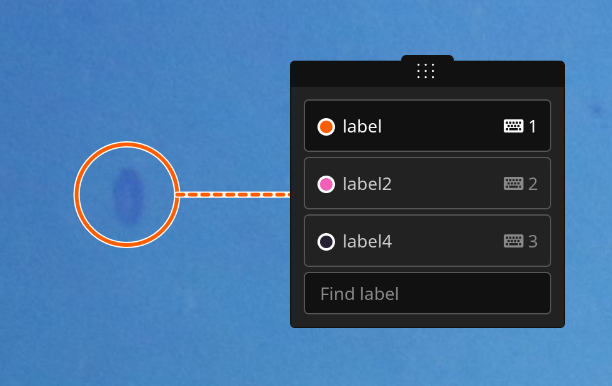
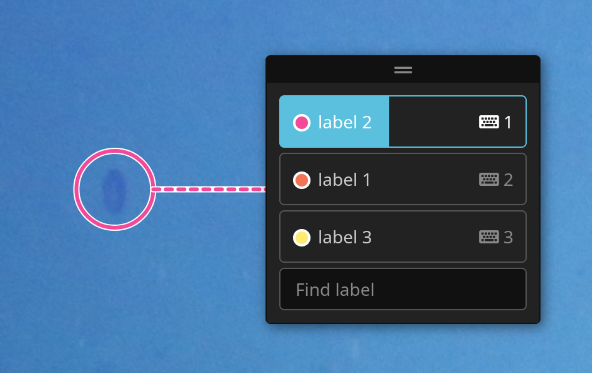
Add LabelBOT popup timeout settings

Changed region(s): [[0.1216, 0.118, 0.9426, 0.9142], [0.6689, 0.1769, 0.6993, 0.2064]]

diff --git a/resources/assets/js/annotations/components/labelbotPopup.vue b/resources/assets/js/annotations/components/labelbotPopup.vue
@@ -13,9 +13,7 @@
         <li
             v-for="(label, index) in labels"
             class="labelbot-label"
-            :class="{
-                'labelbot-label--progress': index === 0 && hasProgressBar,
-            }"
+            :class="{'labelbot-label--progress': index === 0 && hasProgressBar}"
             :key="index"
             @click="selectLabel(index)"
             :title="`Choose label ${label.name}`"
@@ -23,6 +21,7 @@
                 <div
                     v-if="index === 0 && hasProgressBar"
                     class="labelbot-label__progress-bar"
+                    :style="progressBarStyle"
                     @animationend="confirmAndClose"
                     ></div>
                 <div class="labelbot-label__name">
@@ -66,6 +65,14 @@ import {unByKey} from '@biigle/ol/Observable';
 const OVERLAY_MAX_WIDTH = 300;
 const OVERLAY_OFFSET = OVERLAY_MAX_WIDTH / 2 + 50;
 
+// Defines the available settings options.
+export const TIMEOUTS = [
+    '3s',
+    '5s',
+    '10s',
+    'off',
+];
+
 export default {
     emits: [
         'update',
@@ -86,6 +93,10 @@ export default {
         annotation: {
             type: Object,
             required: true,
+        },
+        timeout: {
+            type: Number,
+            default: 1,
         },
     },
     data() {
@@ -149,6 +160,14 @@ export default {
         },
         hasProgressBar() {
             return this.isFocused && this.shouldHaveProgressBar;
+        },
+        timeoutValue() {
+            return TIMEOUTS[this.timeout];
+        },
+        progressBarStyle() {
+            return {
+                'animation-duration': this.timeoutValue,
+            };
         },
     },
     watch: {
@@ -366,6 +385,10 @@ export default {
         }
     },
     created() {
+        if (this.timeout === (TIMEOUTS.length - 1)) {
+            this.shouldHaveProgressBar = false;
+        }
+
         this.trees = biigle.$require('annotations.labelTrees');
 
         Keyboard.on('Escape', this.handleEsc, 0, 'labelbot');

diff --git a/resources/assets/js/annotations/components/settingsTab.vue b/resources/assets/js/annotations/components/settingsTab.vue
@@ -4,6 +4,7 @@ import Keyboard from '@/core/keyboard.js';
 import PowerToggle from '@/core/components/powerToggle.vue';
 import ScreenshotButton from './screenshotButton.vue';
 import Settings from '../stores/settings.js';
+import {TIMEOUTS} from '../components/labelbotPopup.vue';
 
 /**
  * Additional components that can be dynamically added by other Biigle modules via
@@ -58,6 +59,7 @@ export default {
                 'minimap',
                 'progressIndicator',
                 'exampleAnnotations',
+                'labelbotTimeout',
             ],
             annotationOpacity: 1.0,
             cachedImagesCount: 1,
@@ -69,6 +71,8 @@ export default {
             minimap: true,
             progressIndicator: true,
             exampleAnnotations: true,
+            labelbotTimeout: 1,
+            labelbotTimeoutMax: TIMEOUTS.length - 1,
         };
     },
     computed: {
@@ -80,6 +84,9 @@ export default {
         },
         settings() {
             return Settings;
+        },
+        labelbotTimeoutValue() {
+            return TIMEOUTS[this.labelbotTimeout];
         },
     },
     methods: {
@@ -148,9 +155,14 @@ export default {
             this.settings.set('annotationOpacity', opacity);
         },
         cachedImagesCount(amount) {
-            amount = parseFloat(amount);
+            amount = parseInt(amount);
             this.$emit('change', 'cachedImagesCount', amount);
             this.settings.set('cachedImagesCount', amount);
+        },
+        labelbotTimeout(index) {
+            index = parseInt(index);
+            this.$emit('change', 'labelbotTimeout', index);
+            this.settings.set('labelbotTimeout', index);
         },
         mousePosition(show) {
             this.$emit('change', 'mousePosition', show);

diff --git a/resources/assets/js/annotations/annotatorContainer.vue b/resources/assets/js/annotations/annotatorContainer.vue
@@ -538,6 +538,9 @@ export default {
                 case 'cachedImagesCount':
                     this.cachedImagesCount = value;
                     break;
+                case 'labelbotTimeout':
+                    this.labelbotTimeout = value;
+                    break;
                 case 'mousePosition':
                     this.showMousePosition = value;
                     break;

diff --git a/resources/assets/sass/annotations/components/_labelbot-popup.scss b/resources/assets/sass/annotations/components/_labelbot-popup.scss
@@ -49,7 +49,8 @@
     position: absolute;
     height: 100%;
     background-color: $brand-info;
-    animation: 5s linear 1 labelbot-progressbar;
+    // Duration is defined by JS.
+    animation: linear 1 labelbot-progressbar;
 }
 
 .labelbot-label__keyboard {

diff --git a/resources/assets/js/annotations/components/annotationCanvas/labelBot.vue b/resources/assets/js/annotations/components/annotationCanvas/labelBot.vue
@@ -23,6 +23,10 @@ export default {
             type: Number,
             default: -1,
         },
+        labelbotTimeout: {
+            type: Number,
+            default: 1,
+        },
     },
     components: {
         labelbotPopup: LabelbotPopup,

diff --git a/resources/assets/js/annotations/mixins/labelbot.vue b/resources/assets/js/annotations/mixins/labelbot.vue
@@ -32,6 +32,7 @@ export default {
             labelbotMaxRequests: 1,
             labelbotWorker: null,
             labelBotWorkerListeners: [],
+            labelbotTimeout: 1,
         };
     },
     computed: {

diff --git a/resources/assets/js/annotations/stores/settings.js b/resources/assets/js/annotations/stores/settings.js
@@ -22,6 +22,7 @@ let defaults = {
     randomSamplingNumber: 9,
     regularSamplingRows: 3,
     regularSamplingColumns: 3,
+    labelbotTimeout: 1,
 };
 
 export default new Settings({

diff --git a/resources/views/manual/tutorials/labelbot/labelbot.blade.php b/resources/views/manual/tutorials/labelbot/labelbot.blade.php
@@ -19,7 +19,7 @@
         </p>
 
         <p>
-            Whenever a new annotation is created while LabelBOT is active, it will start <b class="text-info">computing</b>. Once finished, an overlay will be shown with the top three suggested labels for the annotation. If left alone for a while, the first suggested label will automatically be selected and the overlay will close. If the first suggested label is not correct, you can also select the second or third label with a click or keyboard shortcut. If none of the suggested labels are correct, you can choose a different label from the typeahead at the bottom of the overlay.
+            Whenever a new annotation is created while LabelBOT is active, it will start <b class="text-info">computing</b>. Once finished, an overlay will be shown with the top three suggested labels for the annotation. The first suggested label is automatically selected for the new annotation. If left alone for a while, the first suggested label will automatically be confirmed and the overlay will close. If the first suggested label is not correct, you can also select the second or third label with a click or keyboard shortcut. If none of the suggested labels are correct, you can choose a different label from the typeahead at the bottom of the overlay.
         </p>
 
         <p class="text-center">
@@ -27,7 +27,7 @@
         </p>
 
         <p>
-            The automatic timeout for choosing the first suggested label is cancelled on any interaction with the overlay. This includes dragging the overlay to a different position, which can be handy if you create several new annotations in a row and have to review multiple overlapping LabelBOT overlays. An overlay can be dragged by grabbing the top part with the cursor and releasing it at a different position. A dashed line indicates which overlay belongs to which annotation.
+            The automatic timeout for confirming the first suggested label <a href="{{route('manual-tutorials', ['annotations', 'sidebar'])}}#:~:text=The%20LabelBOT%20timeout">can be configured</a> and is cancelled on any interaction with the overlay. If multiple overlays are open at the same time, the timeout is only active in the currently focused overlay. A LabelBOT overlay can be dragged to a different position, which can be handy if you create several new annotations in a row and have to review multiple overlapping overlays. To drag an overlay, grab the top edge with the cursor and release it at a different position. A dashed line indicates which overlay belongs to which annotation.
         </p>
 
         <p>

diff --git a/resources/views/annotations/show/tabs/settings.blade.php b/resources/views/annotations/show/tabs/settings.blade.php
@@ -28,8 +28,13 @@
         </div>
 
         <div class="sidebar-tab__section">
-            <h5 title="Set the number of caches images ">Cached Images (<span v-text="cachedImagesCount"></span>)</h5>
+            <h5 title="Set the number of caches images">Cached Images (<span v-text="cachedImagesCount"></span>)</h5>
             <input type="range" min="1" max="50" step="1" v-model="cachedImagesCount" onmouseup="this.blur()">
+        </div>
+
+        <div class="sidebar-tab__section">
+            <h5 title="Set the duration of the LabelBOT popup timeout">LabelBOT Timeout (<span v-text="labelbotTimeoutValue"></span>)</h5>
+            <input type="range" min="0" :max="labelbotTimeoutMax" step="1" v-model="labelbotTimeout" onmouseup="this.blur()">
         </div>
 
         <div class="sidebar-tab__section">

diff --git a/resources/views/manual/tutorials/annotations/sidebar.blade.php b/resources/views/manual/tutorials/annotations/sidebar.blade.php
@@ -122,6 +122,10 @@
         </p>
 
         <p>
+            <a name="labelbot-timeout"></a>The LabelBOT timeout slider allows you to control the time after a <a href="{{route('manual-tutorials', ['labelbot', 'labelbot'])}}">LabelBOT</a> popup automatically closes. Move the slider to the far right to disable automatic closing.
+        </p>
+
+        <p>
             The progress indicator switch constrols the display of the indicator element next to the image filename in the navbar. The indicator shows your progress through the current (filtered) volume and whether you have seen all images.
         </p>
 

diff --git a/resources/views/annotations/show.blade.php b/resources/views/annotations/show.blade.php
@@ -89,6 +89,7 @@
             :labelbot-state="labelbotState"
             :labelbot-overlays="labelbotOverlays"
             :focused-popup-key="focusedPopupKey"
+            :labelbot-timeout="labelbotTimeout"
             v-on:change-labelbot-focused-popup="changeLabelbotFocusedPopup"
             v-on:close-labelbot-popup="closeLabelbotPopup"
             v-on:moveend="handleMapMoveend"

diff --git a/resources/views/annotations/show/annotationCanvas.blade.php b/resources/views/annotations/show/annotationCanvas.blade.php
@@ -193,6 +193,7 @@
         :key="annotation.id"
         :focused-popup-key="focusedPopupKey"
         :annotation="annotation"
+        :timeout="labelbotTimeout"
         @update="updateLabelbotLabel"
         @close="closeLabelbotPopup"
         @delete="handleDeleteLabelbotAnnotation"
